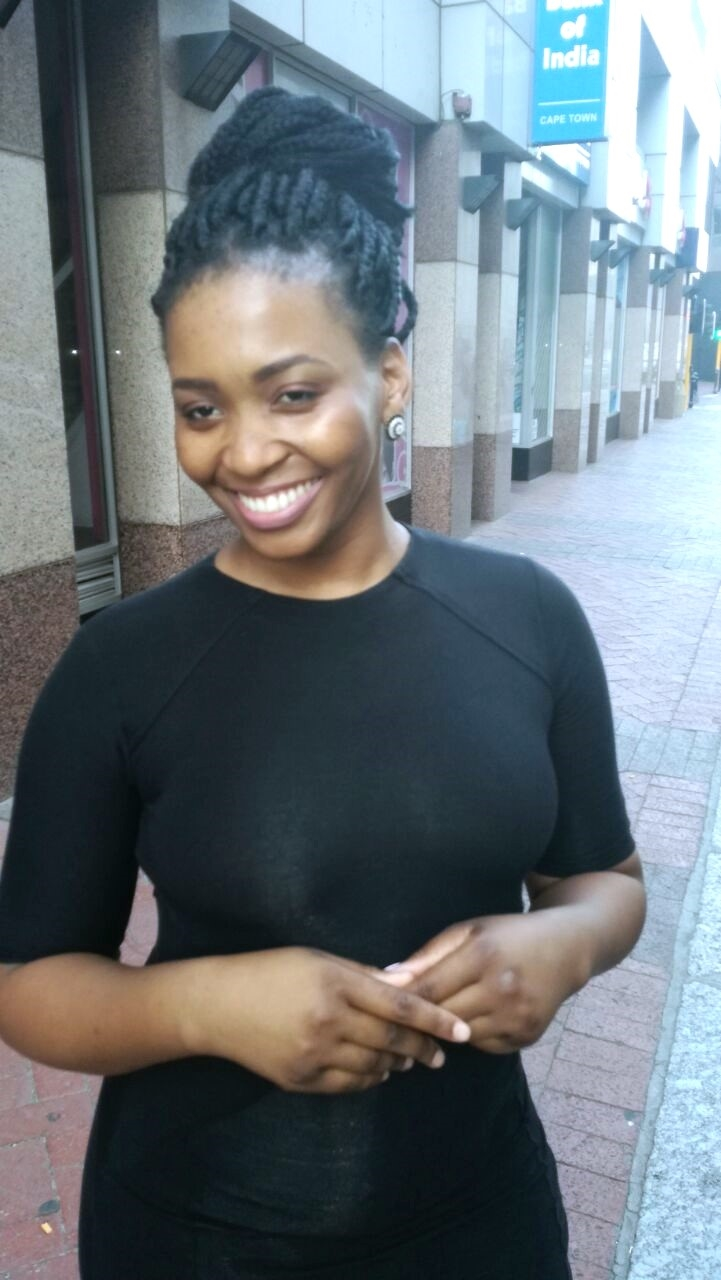
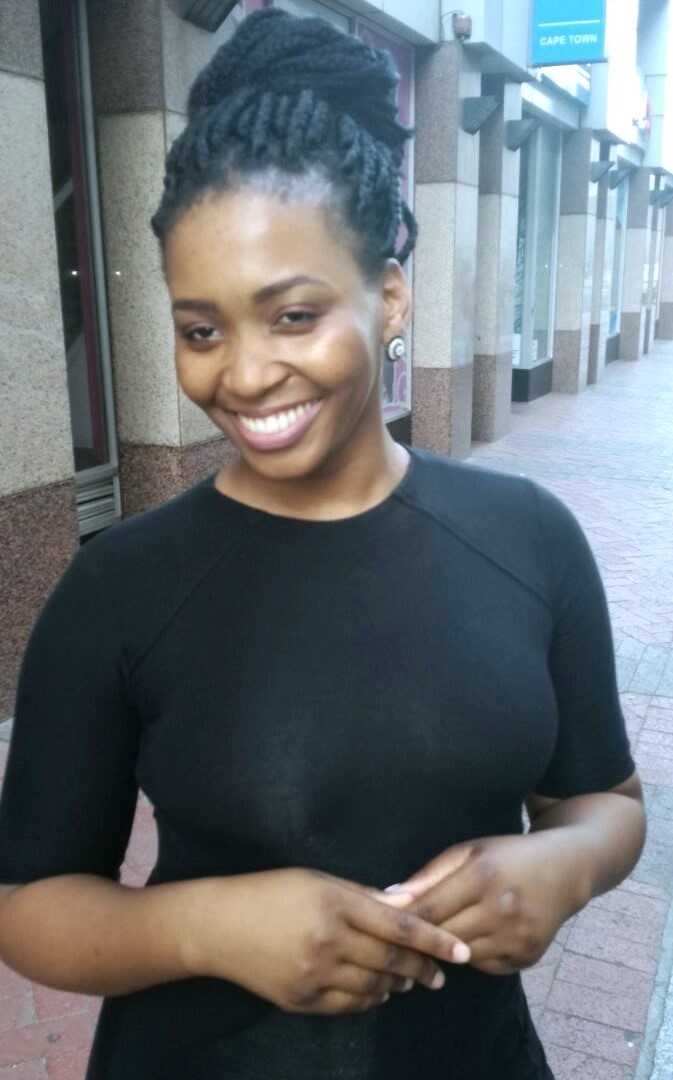
images

diff --git a/resume8.html b/resume8.html
@@ -15,8 +15,11 @@
   </head>
   <body>
     <div class="hero">
-      <div class="contents">
-    <img src="images/Sike.jpg" class="profile-pic" alt="Profile Picture">
+      <picture>
+        <source media= "(max-width: 650px)" srcset="images/HDsmaller.jpg">
+        <source media= "(max-width: 1000px)" srcset="images/HDmedium.jpg">
+        <img src="images/headshot.jpg" class="profile-pic" alt="Profile Picture">
+    </picture>
     <h1>Sikelelwa Kwinana</h1>
     <p class="intro">Viverra adipiscing at in tellus integer feugiat scelerisque varius.
         Vestibulum sed arcu non odio euismod lacinia at. Quis vel eros donec ac

diff --git a/resume7-2.html b/resume7-2.html
@@ -15,8 +15,11 @@
   </head>
   <body>
     <div class="hero">
-      <div class="contents">
-    <img src="images/Sike.jpg" class="profile-pic" alt="Profile Picture">
+      <picture>
+        <source media= "(max-width: 650px)" srcset="images/HDsmaller.jpg">
+        <source media= "(max-width: 1000px)" srcset="images/HDmedium.jpg">
+        <img src="images/siki.jpg" class="profile-pic" alt="Profile Picture">
+      </picture>
     <h1>Sikelelwa Kwinana</h1>
     <p class="intro">Viverra adipiscing at in tellus integer feugiat scelerisque varius.
         Vestibulum sed arcu non odio euismod lacinia at. Quis vel eros donec ac
